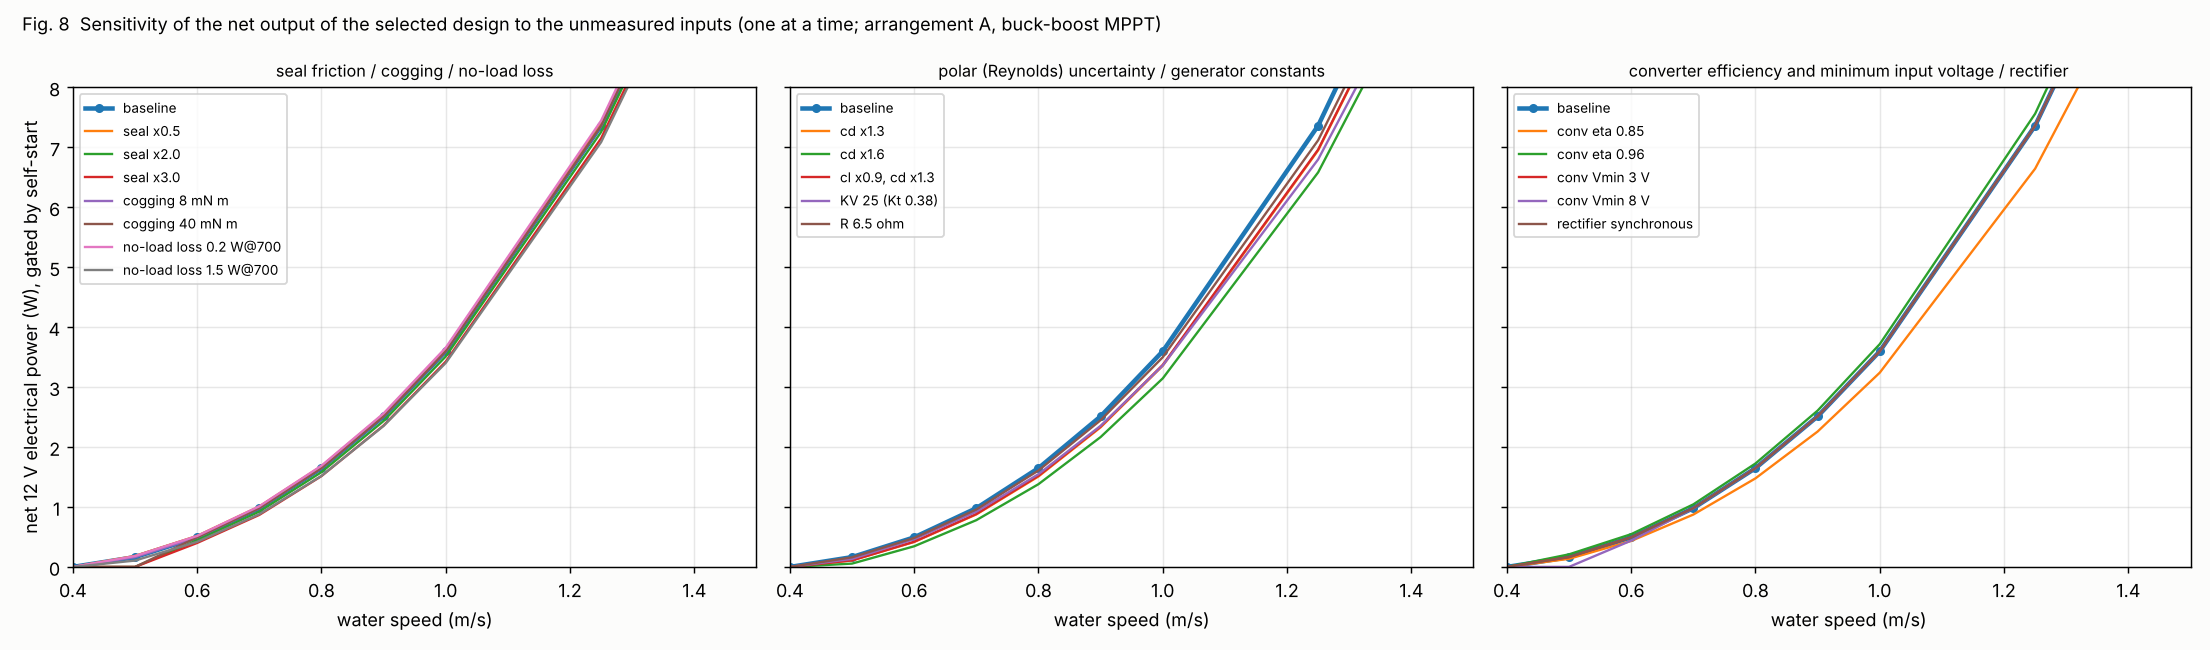
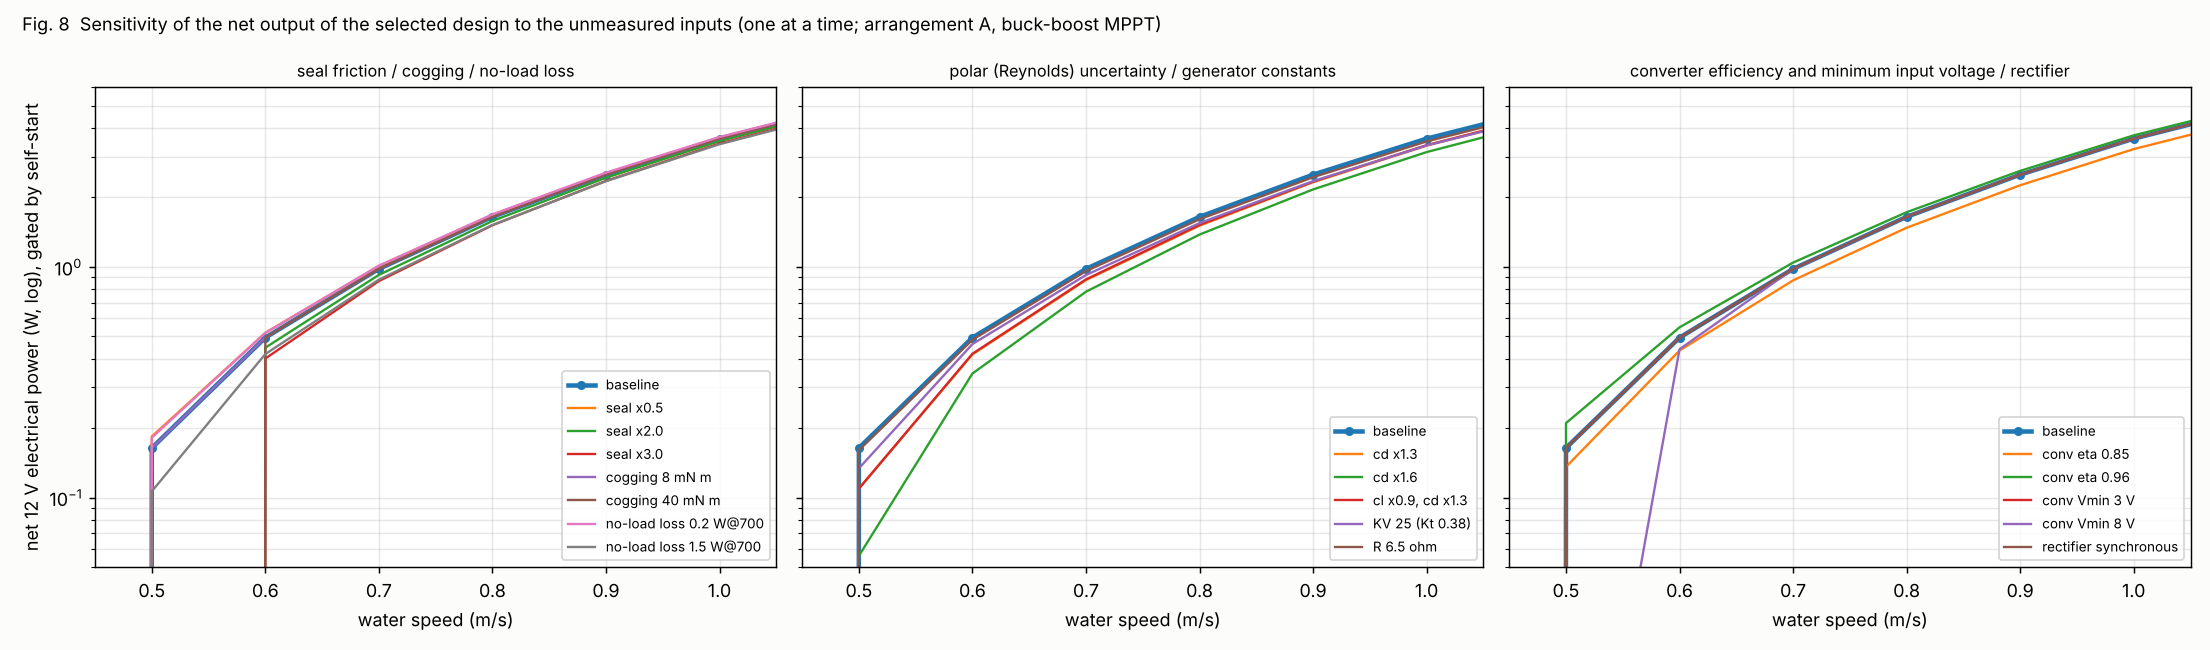
v4 low-flow turbine: structural screening, print orientations, report/PDF pipeline (reviews pending)
Claude-Session: https://claude.ai/code/session_01QKLJyicF4vgcCBnbPmBqRW

diff --git a/cad/turbine_lowflow_v4/model/coupled_eval.py b/cad/turbine_lowflow_v4/model/coupled_eval.py
@@ -52,7 +52,10 @@ def min_flows(res):
     s = next((float(V) for V in res["perV"] if res["perV"][V]["start"]), None); u = next((float(V) for V in res["perV"] if res["perV"][V]["op"] and res["perV"][V]["sustain"] > 0), None)
     return s, u
 
-if __name__ == "__main__":
+if __name__ == "__main__" and "--replot" in sys.argv:
+    Cst = json.load(open(os.path.join(HERE, "coupled_results.json"))); R = {k: v["res"] for k, v in Cst["designs"].items()}; names = {k: v["name"] for k, v in Cst["designs"].items()}
+    spec_new = Cst["selected"]["spec"]; sens = Cst["sens"]; gmap = Cst["gmap"]; combos = Cst["combos"]
+if __name__ == "__main__" and "--replot" not in sys.argv:
     sel = json.load(open(os.path.join(HERE, "selected_design.json")))
     spec_new = sel["spec"]; orig, v31 = previous_designs()
     designs = {"new": (spec_new, "A"), "v31": (v31, "B"), "orig": (orig, "A"), "new_in_B": (spec_new, "B")}
@@ -115,6 +118,7 @@ if __name__ == "__main__":
         gmap[str(T)] = rows
     json.dump(dict(designs={k: dict(name=names.get(k, k), res=R[k]) for k in R}, table=table, sens=sens, combos=combos, gmap=gmap, VS=VS_ALL, selected=sel),
               open(os.path.join(HERE, "coupled_results.json"), "w"), indent=0, default=float)
+if __name__ == "__main__":
     # ======================================================================= figures
     def fig_cp_tsr():
         fig, axs = plt.subplots(1, 4, figsize=(18, 4.6), facecolor=SURF, sharey=True)
@@ -186,8 +190,8 @@ if __name__ == "__main__":
             for key in keys:
                 if sens.get(key) is None: continue
                 ax.plot(VS_ALL, sens[key], "-o" if key == "baseline" else "-", lw=2.5 if key == "baseline" else 1.3, ms=4, label=key)
-            ax.set_xlim(0.4, 1.5); ax.set_xlabel("water speed (m/s)"); ax.grid(alpha=0.3); ax.legend(fontsize=7.5); ax.set_title(title, fontsize=9)
-        axs[0].set_ylabel("net 12 V electrical power (W), gated by self-start"); axs[0].set_ylim(0, 8)
+            ax.set_xlim(0.45, 1.05); ax.set_yscale("log"); ax.set_ylim(0.05, 6); ax.set_xlabel("water speed (m/s)"); ax.grid(alpha=0.3, which="both"); ax.legend(fontsize=7.5, loc="lower right"); ax.set_title(title, fontsize=9)
+        axs[0].set_ylabel("net 12 V electrical power (W, log), gated by self-start")
         fig.suptitle("Fig. 8  Sensitivity of the net output of the selected design to the unmeasured inputs (one at a time; arrangement A, buck-boost MPPT)", fontsize=10, x=0.01, ha="left")
         fig.tight_layout(); fig.savefig(os.path.join(OUT, "fig8_sensitivity.png"), dpi=130, facecolor=SURF)
     def fig_operating_point():

diff --git a/cad/turbine_lowflow_v4/cad/make_v4.py b/cad/turbine_lowflow_v4/cad/make_v4.py
@@ -328,14 +328,15 @@ def build(sel):
     return parts, layout
 
 def print_orient(name, s):
-    base = name.split("_")[0]
-    if name in ("hub_front",): s = s.rotate(cq.Vector(0, 0, 0), cq.Vector(0, 1, 0), -90)          # parting face (at +X) down: -X -> up... front half: parting face is its +X face -> rotate so +X -> -Z
-    elif name in ("hub_rear",): s = s.rotate(cq.Vector(0, 0, 0), cq.Vector(0, 1, 0), 90)          # parting face (-X face) down
+    """rotate a printed part so its print face is at -Z (then move onto z = 0): hub halves on their parting faces, disc flat, clamp halves
+    on their flat parting plane, ring on its end face, dog hub on its bare end"""
+    if name == "hub_front": s = s.rotate(cq.Vector(0, 0, 0), cq.Vector(0, 1, 0), 90)            # parting face is its +X face -> -Z
+    elif name == "hub_rear": s = s.rotate(cq.Vector(0, 0, 0), cq.Vector(0, 1, 0), -90)          # parting face is its -X face -> -Z
     elif name in ("drive_disc",): s = s.rotate(cq.Vector(0, 0, 0), cq.Vector(0, 1, 0), 90)
     elif name in ("dog_hub",): s = s.rotate(cq.Vector(0, 0, 0), cq.Vector(0, 1, 0), -90)
     elif name in ("duct",): s = s.rotate(cq.Vector(0, 0, 0), cq.Vector(0, 1, 0), 90)
     elif name in ("nose_plug",): s = s.rotate(cq.Vector(0, 0, 0), cq.Vector(0, 1, 0), 90)
-    elif name == "clamp_top": s = s.rotate(cq.Vector(0, 0, 0), cq.Vector(1, 0, 0), 180)
+    elif name == "clamp_bot": s = s.rotate(cq.Vector(0, 0, 0), cq.Vector(1, 0, 0), 180)           # its flat parting plane (z = 0) becomes the bottom
     bb = s.BoundingBox(); return s.translate(cq.Vector(-bb.xmin, -bb.ymin, -bb.zmin))
 
 def export(parts, layout, sel, prefix="v4"):
